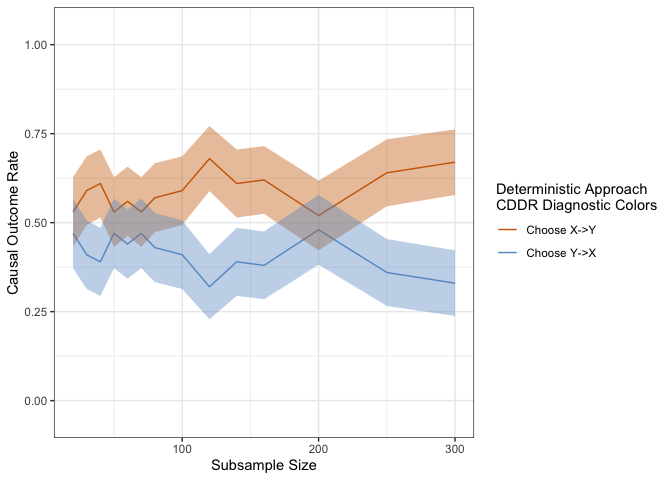
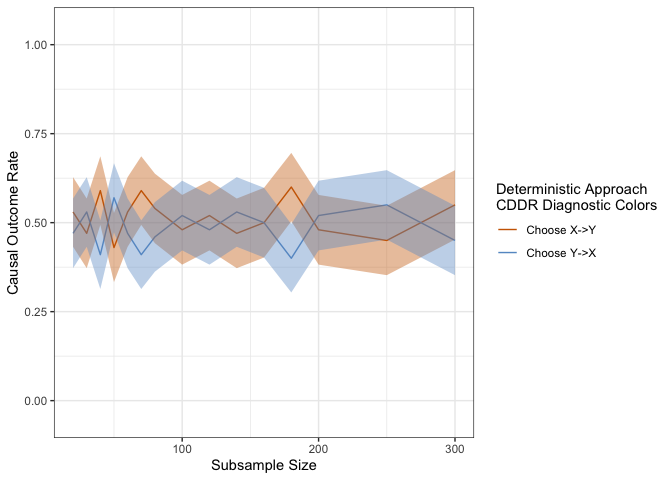
updating readme files

Changed region(s): [[0.0938, 0.25, 0.6875, 0.6562]]

diff --git a/README.md b/README.md
@@ -120,7 +120,7 @@ main_dir <- "~/Documents/cddr_paper/package/test"
 name_files <- c("cddr_deter_samp")
 name_out <- c("cddr_random_pop_cal")
 run_causal_method <- function(data){
-  p <- rbinom(1, 1, p = 0.4)
+  p <- rbinom(1, 1, p = 0.5)
     if (p == 0){
       return(c(1,2))}
    else{
